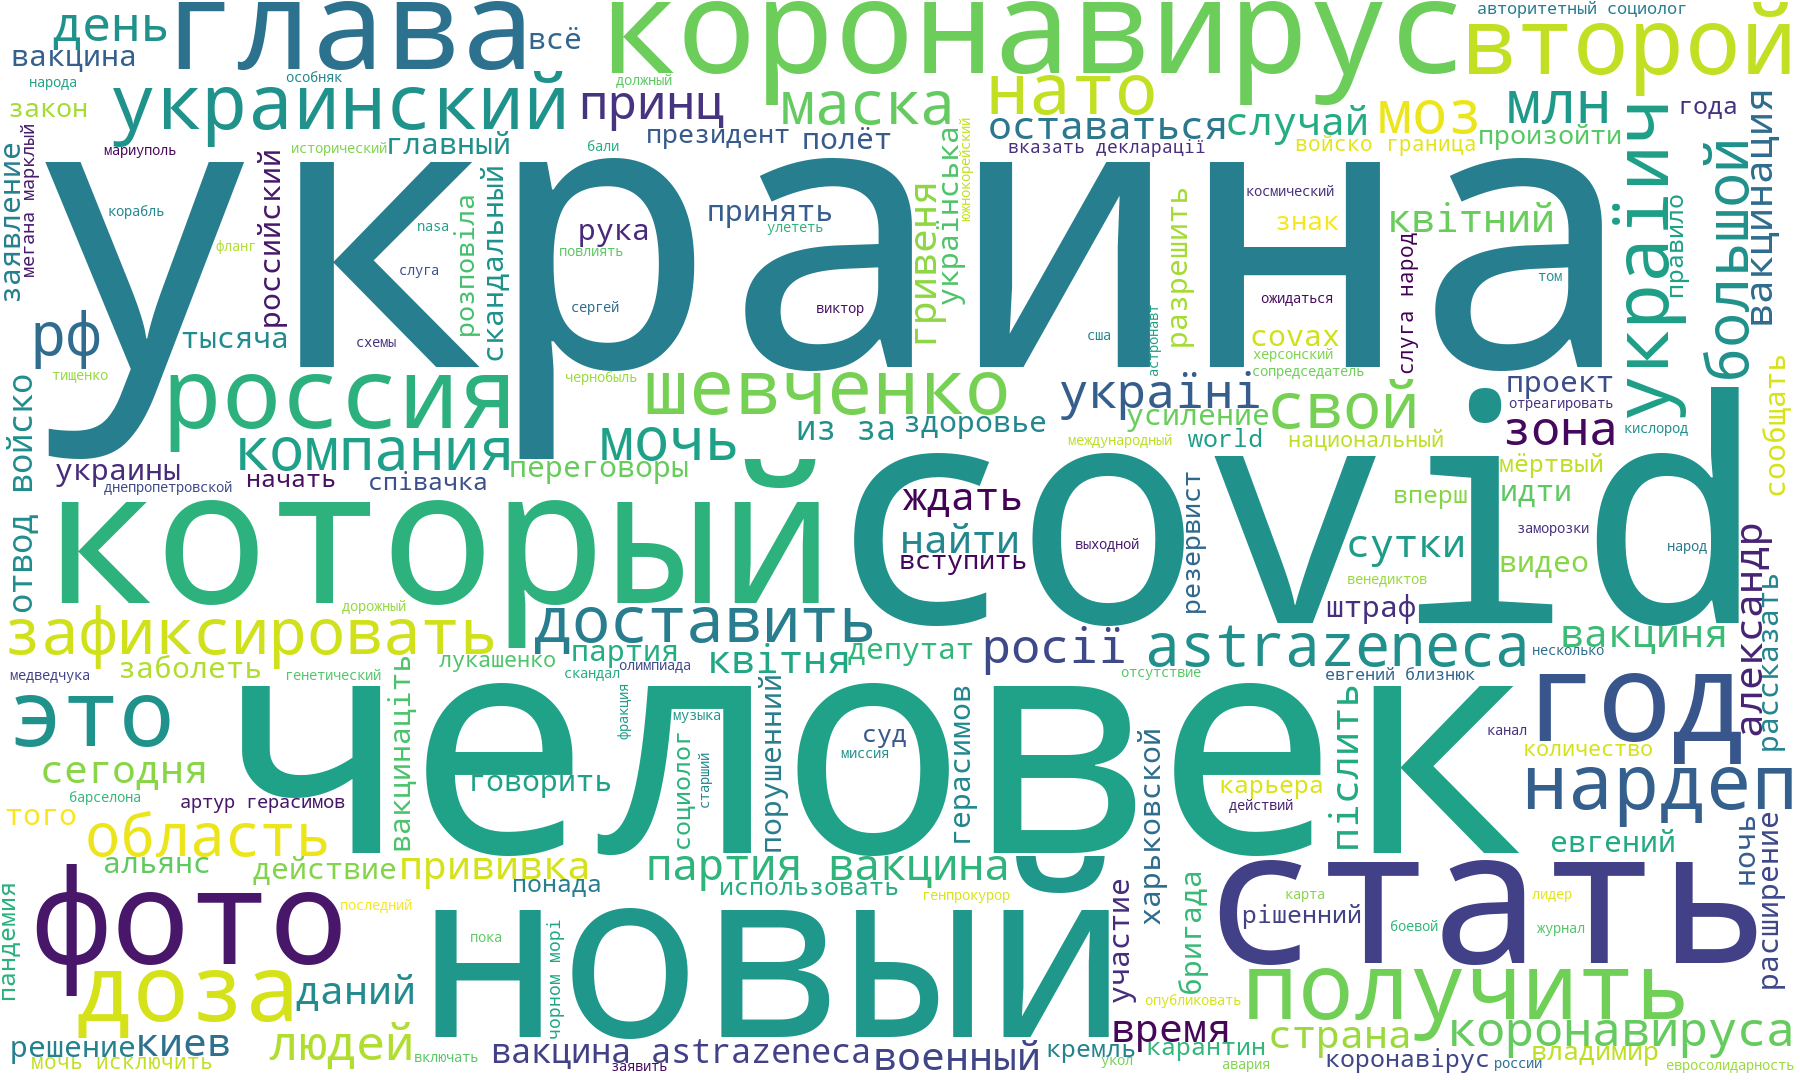
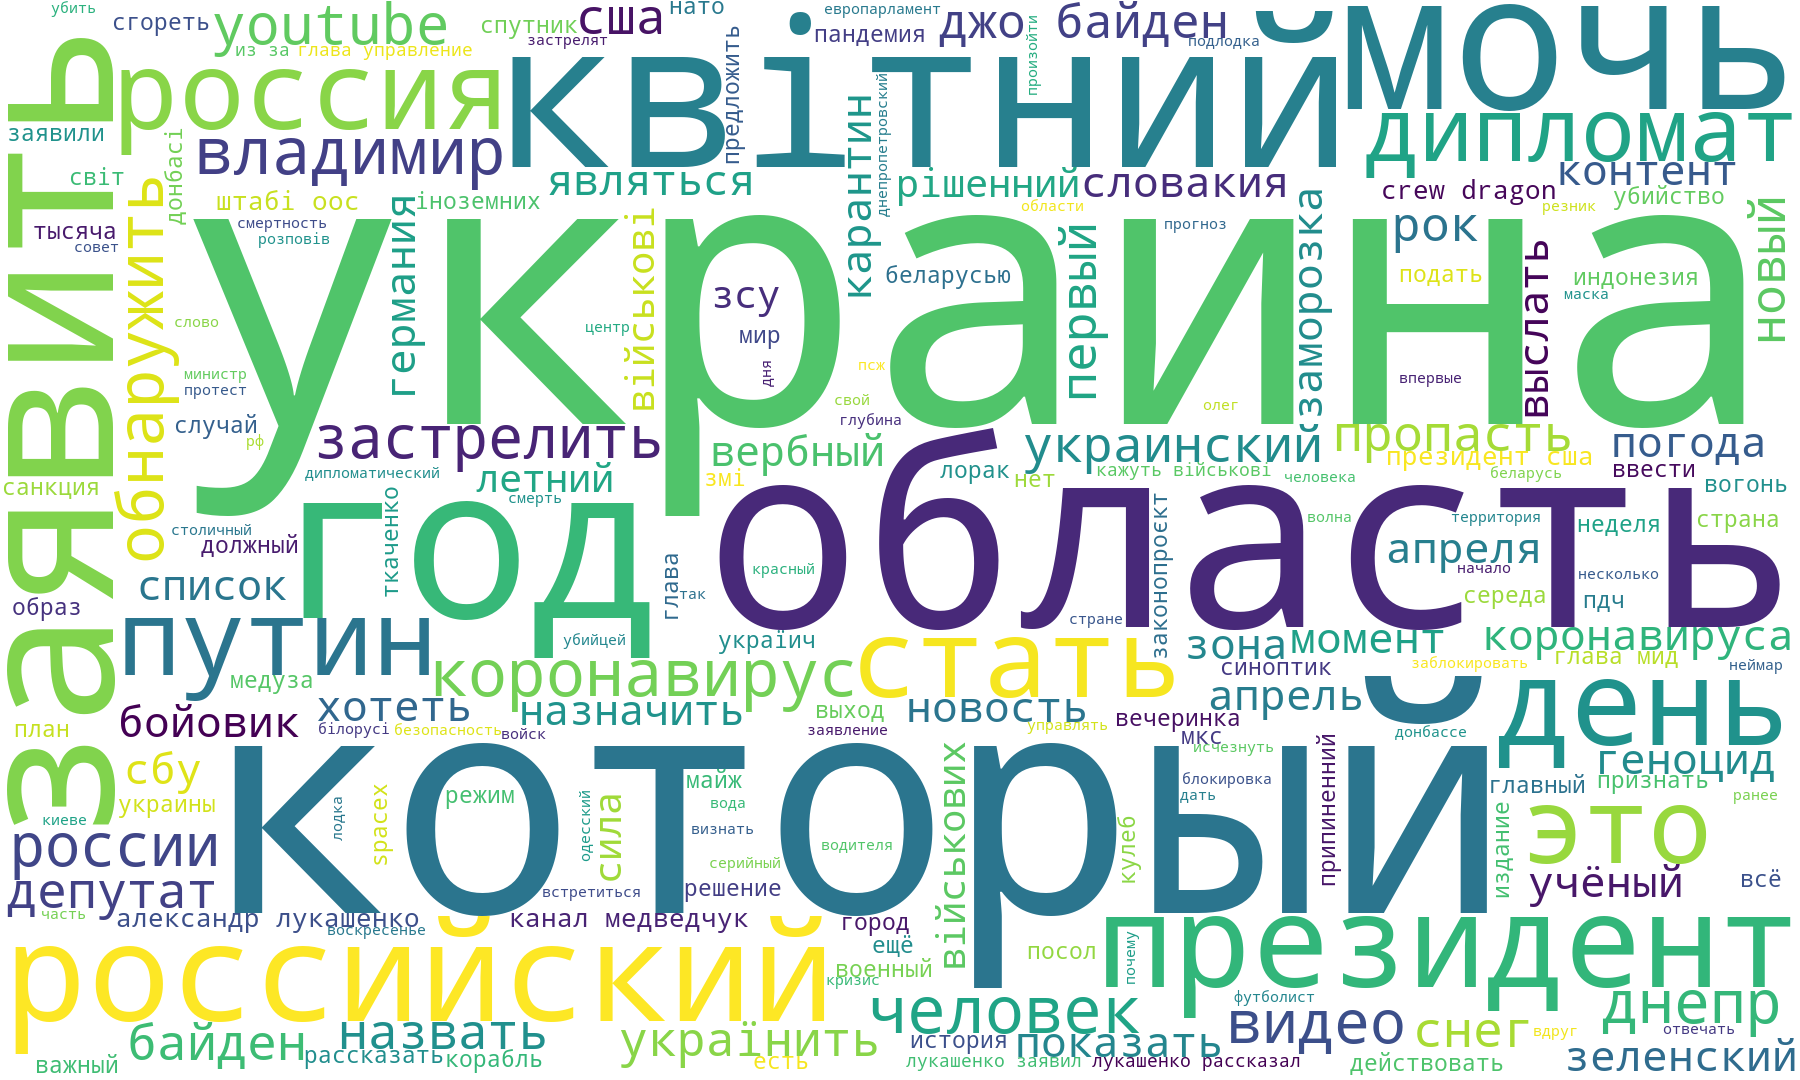
Russian and Ukrainian news, fancy tabs added

diff --git a/newsWords/wordCloud/templates/wordCloud/base.html b/newsWords/wordCloud/templates/wordCloud/base.html
@@ -39,14 +39,162 @@
 
         <meta charset="utf-8">
         <title>
-            ExPro Consulting
+            News Word CLoud
         </title>
+
+
+        <style>
+
+
+            .price {
+                text-align: center;
+            }
+
+            .responsive-iframe {
+              position: absolute;
+              top: 0;
+              left: 0;
+              bottom: 0;
+              right: 0;
+              width: 100%;
+              height: 100%;
+              overflow: visible;
+            }
+            .container-iframe {
+              position: relative;
+              overflow: visible;
+              width: 100%;
+              padding-top: 56.25%; /* 16:9 Aspect Ratio (divide 9 by 16 = 0.5625) */
+            }
+
+
+
+            .tab {
+                 overflow: hidden;
+                 border: none;
+                 background-color: #5639fa;
+                 color: white;
+                 border-radius: 5px 5px 5px 5px;
+                 box-shadow: 0 0 20px rgba(0, 0, 0, 0.15);
+            }
+
+               .tab button {
+                 background-color: inherit;
+                 float: left;
+                 border: none;
+                 outline: none;
+                 cursor: pointer;
+                 padding: 14px 16px;
+                 transition: 0.3s;
+               }
+
+
+               .tab button:hover {
+                 background-color: #4527f0;
+               }
+
+               .tab button.active {
+                 background-color: #6f58f5;
+               }
+
+
+               .tabcontent {
+                 display: none;
+                 padding: 6px 12px;
+                 border: 1px solid #ccc;
+                 border-top: none;
+               }
+               .tabcontent {
+              animation: fadeEffect 2s; /* Fading effect takes 2 seconds */
+              }
+
+            /* Go from zero to full opacity */
+              @keyframes fadeEffect {
+                from {opacity: 0;}
+                to {opacity: 1;}
+              }
+
+             /* Hide scrollbar for Chrome, Safari and Opera */
+             .container::-webkit-scrollbar {
+              display: none;
+            }
+
+            /* Hide scrollbar for IE, Edge and Firefox */
+            .container {
+              -ms-overflow-style: none;  /* IE and Edge */
+              scrollbar-width: none;  /* Firefox */
+            }
+
+            .containerframe {
+              position: relative;
+              overflow: hidden;
+              width: 100%;
+            }
+
+            :root {
+              --margin: 2rem;
+            }
+
+            .wrapper {
+                position: relative;
+                overflow: hidden;
+            }
+
+            .wrapper iframe {
+                position: absolute;
+                top: 0;
+                left: 0;
+                height: 100%;
+                width: 100%;
+            }
+
+            .container-small {
+                display: none;
+            }
+
+            @media (max-width:500px) {
+            #wrap {
+              width: 750px;
+              height: 1500px;
+              padding: 0;
+              overflow: hidden;
+            }
+
+            #scaled-frame {
+              width: 1000px;
+              height: 2000px;
+              border: 0px;
+            }
+
+            #scaled-frame {
+              zoom: 0.4;
+              -moz-transform: scale(0.4);
+              -moz-transform-origin: 0 0;
+              -o-transform: scale(0.4);
+              -o-transform-origin: 0 0;
+              -webkit-transform: scale(0.4);
+              -webkit-transform-origin: 0 0;
+            }
+
+            @media screen and (-webkit-min-device-pixel-ratio:0) {
+              #scaled-frame {
+                zoom: 1;
+              }
+            }
+            .container-big {
+                display: none;
+            }
+            .container-small {
+                display: inline-block;
+            }
+            }
+    </style>
     </head>
 
 
     <body>
         <font size="+2">
-        <div id="navbar_expro" style="background-color: #5639fa; height: 10rem;">
+        <div id="navbar_expro" style="background-color: #5639fa; height: 5rem;">
             <div class="row">
                 <div class="col-md-10">
 
@@ -58,12 +206,28 @@
 
         <div class="container">
             <fieldset style="margin-top: 10px;">
-                <legend class = border-bottom mb-4 style="font-size: 40px;"> Wordcloud of Ukrainian news </legend>
+                <legend class = border-bottom mb-4 style="font-size: 40px;"> Wordcloud of news </legend>
             </fieldset>
 
-            <div class="container" style="overflow: hide;">
-                <div><img src="{% static 'cloudUkr.png' %}" style="width:100%; height:100%"></div>
+
+
+            <div class="tab">
+                <button class="tablinks" onclick="openCity(event, 'seven_days')" id = "defaultOpen">Ukrainian news word cloud</button>
+                <button class="tablinks" onclick="openCity(event, 'month')">Russian news word cloud</button>
             </div>
+
+            <div id="seven_days" class="tabcontent">
+                
+              <div><img src="{% static 'cloudUkr.png' %}" style="width:100%; height:100%"></div>
+                
+            </div>
+
+        <div id="month" class="tabcontent">
+      
+          <div><img src="{% static 'cloudRus.png' %}" style="width:100%; height:100%"></div>
+               
+        </div>
+
         </div>
 
 
@@ -76,5 +240,27 @@
     </body>
 
 
+       <script>
+            function openCity(evt, cityName) {
+            // Declare all variables
+            var i, tabcontent, tablinks;
 
+            // Get all elements with class="tabcontent" and hide them
+            tabcontent = document.getElementsByClassName("tabcontent");
+            for (i = 0; i < tabcontent.length; i++) {
+              tabcontent[i].style.display = "none";
+            }
+
+            // Get all elements with class="tablinks" and remove the class "active"
+            tablinks = document.getElementsByClassName("tablinks");
+            for (i = 0; i < tablinks.length; i++) {
+              tablinks[i].className = tablinks[i].className.replace(" active", "");
+            }
+
+            // Show the current tab, and add an "active" class to the button that opened the tab
+            document.getElementById(cityName).style.display = "block";
+            evt.currentTarget.className += " active";
+          }
+            document.getElementById("defaultOpen").click();
+        </script>
 </html>

diff --git a/newsWords/wordCloud/views.py b/newsWords/wordCloud/views.py
@@ -296,6 +296,7 @@ def wordcloud(request):
     urls = ["https://www.liga.net/news/all/rss.xml", 'https://inform-ua.info/feed/rss/v1',
             "https://www.rbc.ua/static/rss/all.ukr.rss.xml", "https://fakty.ua/rss_feed/all",
             'https://www.radiosvoboda.org/api/zrqiteuuir', 'https://nv.ua/rss/all.xml']
+    urls_ru = ["https://rss.dw.com/xml/rss-ru-news", "https://news.ru/rss/type/post/", "https://www.vedomosti.ru/rss/news"]
 
     now = datetime.now()
     dt_string = now.strftime("%d.%m.%Y, %H:%M:%S")
@@ -309,16 +310,30 @@ def wordcloud(request):
             if os.path.isfile('static/cloudUkr.png'):
                 os.remove('static/cloudUkr.png')
 
+            if os.path.isfile('static/cloudRus.png'):
+                os.remove('static/cloudRus.png')
+
             if os.path.isfile('static/time.xlsx'):
                 os.remove('static/time.xlsx')
 
             time_df = pd.DataFrame({"last_loaded": [dt_string]})
             time_df.to_excel("static/time.xlsx")
             get_word_cloud(out_stop_words(get_all_data(urls)), "static/cloudUkr")
+            get_word_cloud(out_stop_words(get_all_data(urls_ru)), "static/cloudRus")
     else:
+        if os.path.isfile('static/cloudUkr.png'):
+            os.remove('static/cloudUkr.png')
+
+        if os.path.isfile('static/cloudRus.png'):
+            os.remove('static/cloudRus.png')
+
+        if os.path.isfile('static/time.xlsx'):
+            os.remove('static/time.xlsx')
+
         time_df = pd.DataFrame({"last_loaded": [dt_string]})
         time_df.to_excel("static/time.xlsx")
         get_word_cloud(out_stop_words(get_all_data(urls)), "static/cloudUkr")
+        get_word_cloud(out_stop_words(get_all_data(urls_ru)), "static/cloudRus")
 
     # text = {"text": out_stop_words(get_all_data(urls))}
     return render(request, "wordCloud/base.html")
